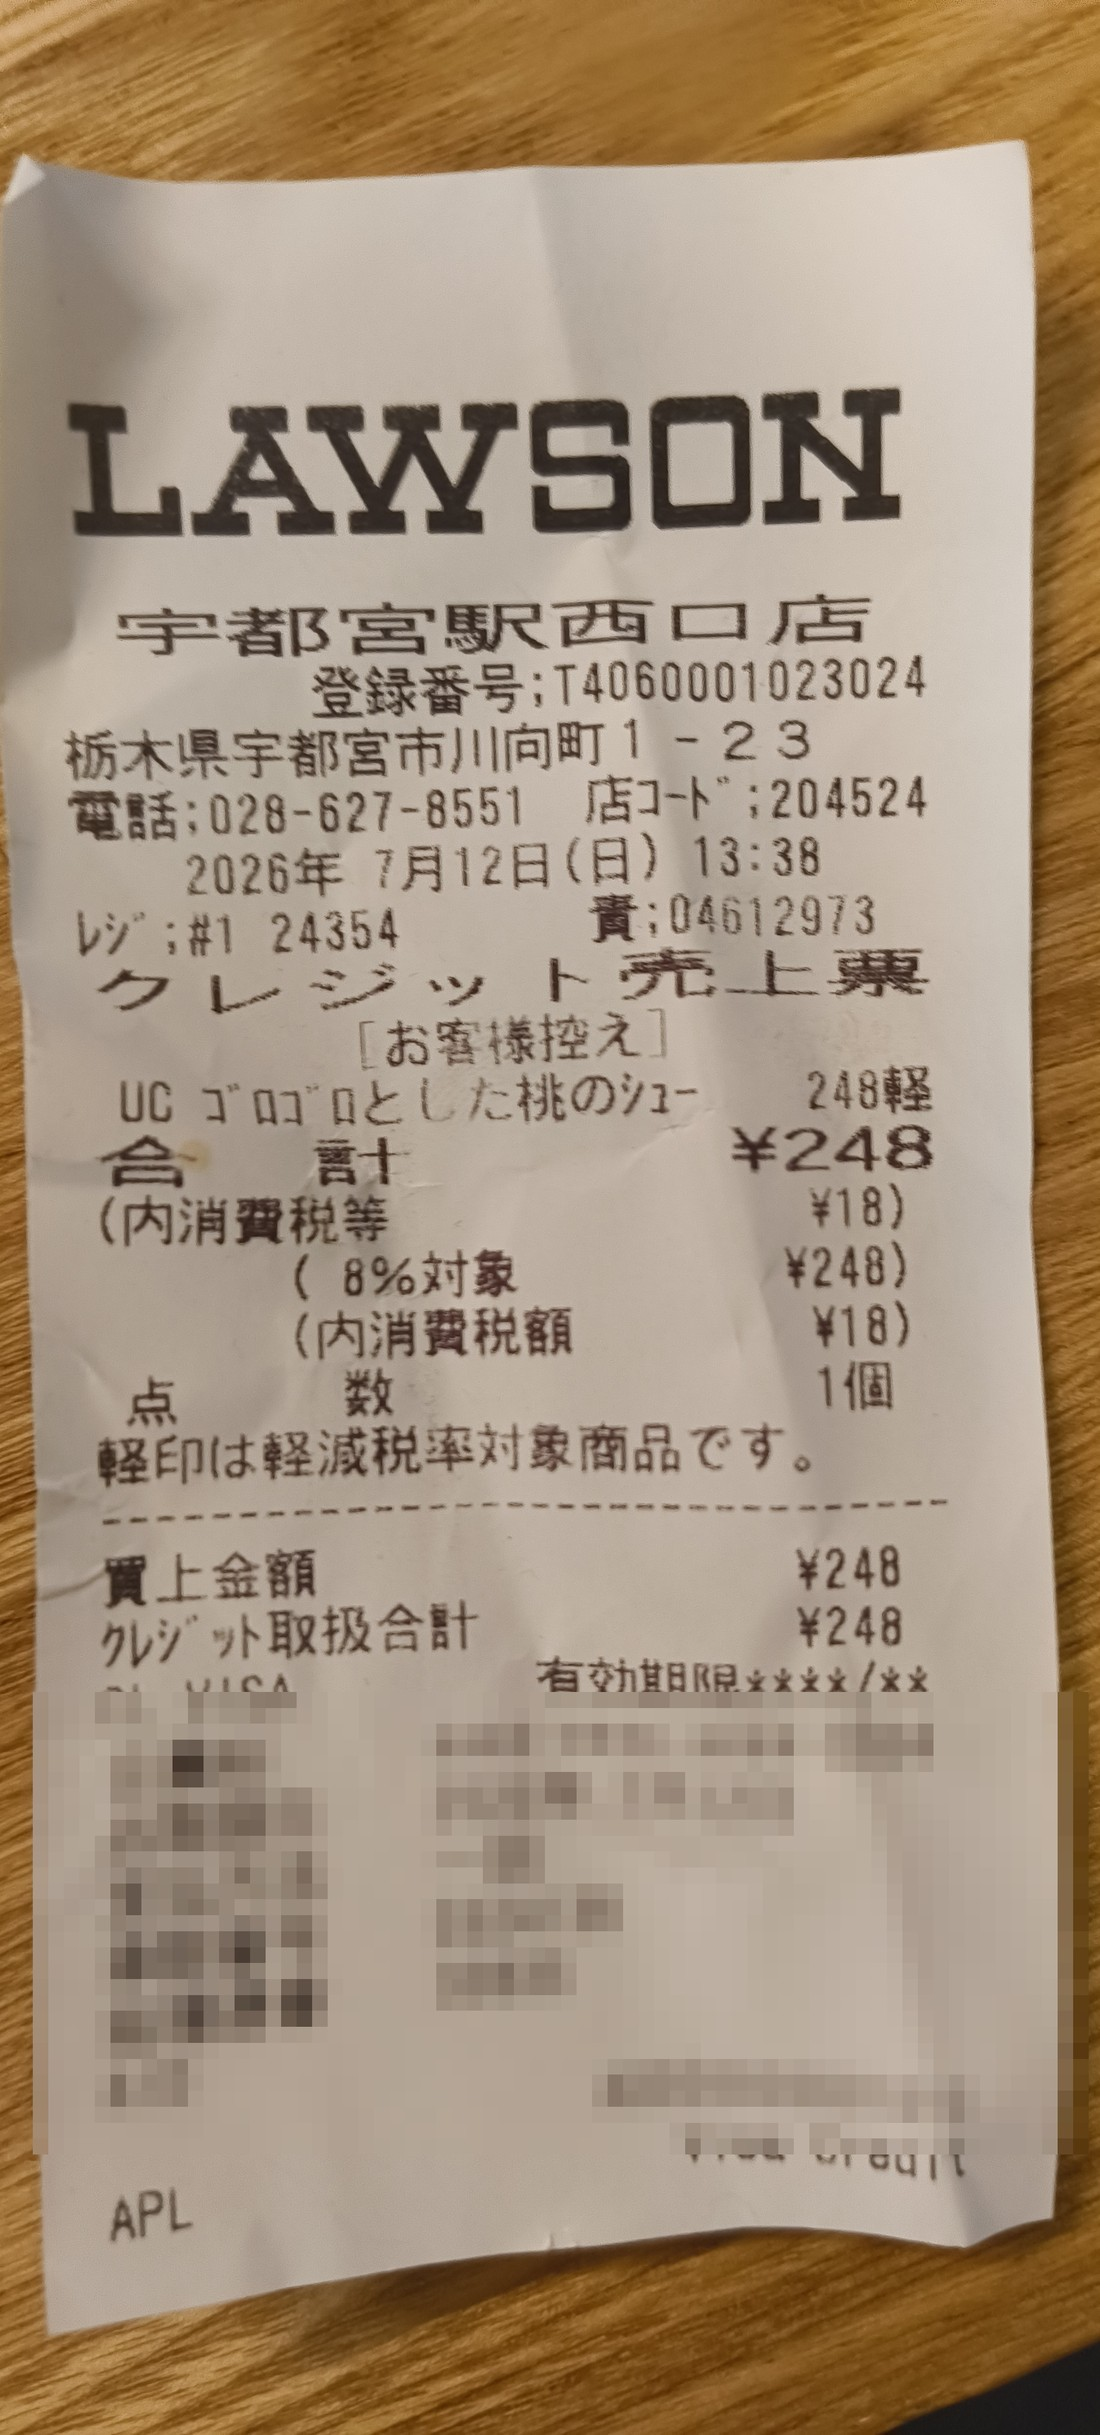
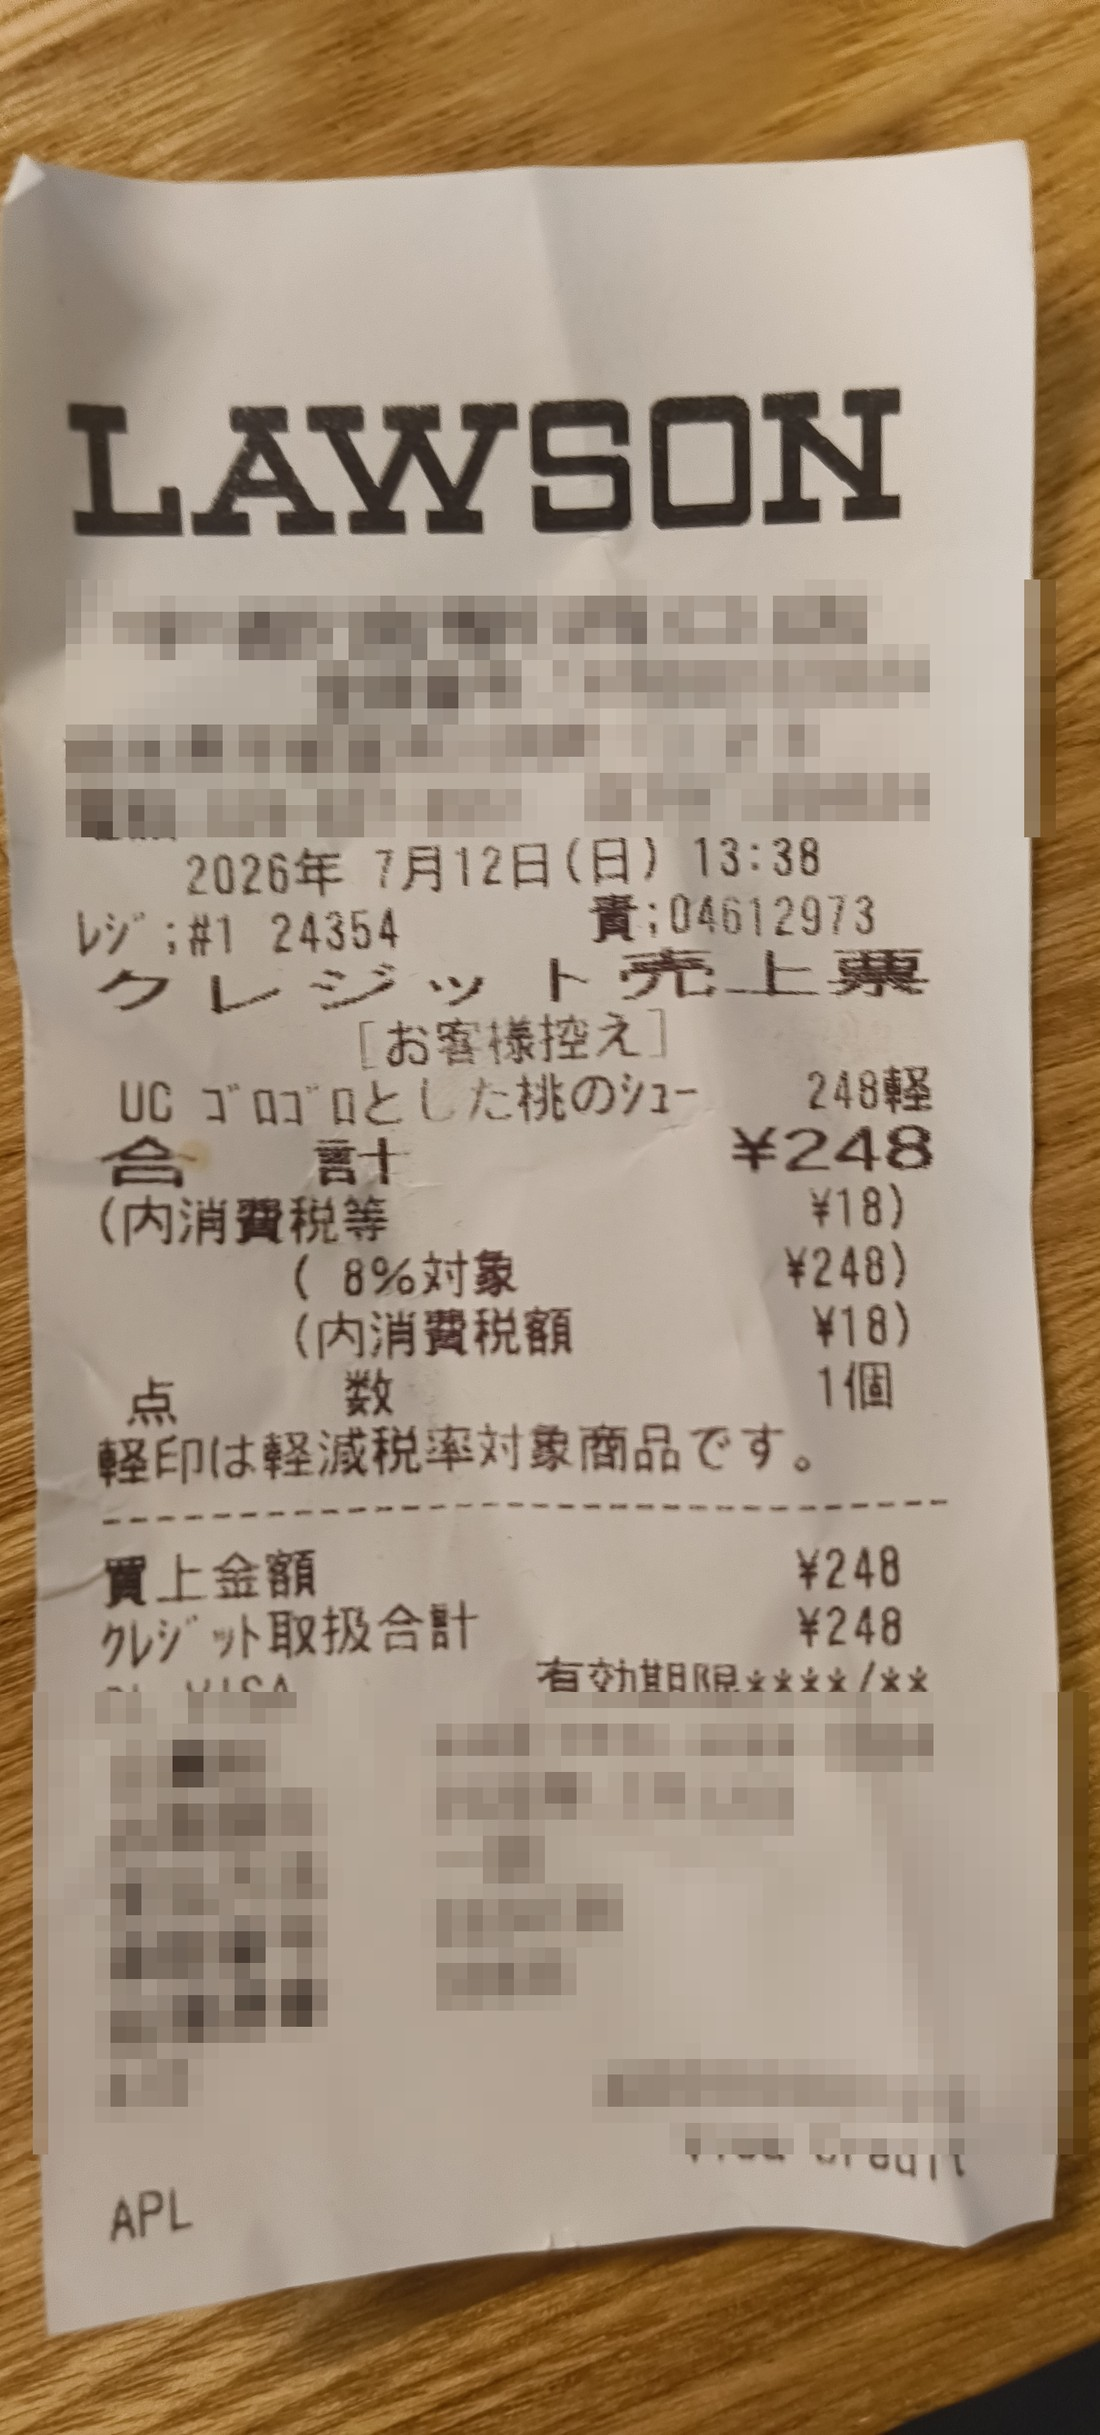
レシート写真の店舗特定情報をモザイクにする
支店名・登録番号・住所・電話・店コードを潰した。居住地が
そのまま読み取れるため。チェーン名のロゴは残している
（全国に多数あり場所を示さないうえ、レシートらしさが要るため）。

あわせて、その場かぎりのコマンドで作っていたレシート画像の
生成を mask.py に移した。元写真はリポジトリ外にあるので、
無い環境ではこの工程を飛ばす。

Claude-Session: https://claude.ai/code/session_01HWJt97JVuZTmLaNnjwvwhr

Changed region(s): [[0.0618, 0.2185, 0.8655, 0.3433], [0.9273, 0.2185, 0.9582, 0.3433]]

diff --git a/marketing/mask.py b/marketing/mask.py
@@ -21,6 +21,8 @@ lp.mjs はマスク済みのほうを読む。無加工のスクショ（real/sh
 bounds は行全体（x=107..973 など）を指すが、テキストは左寄せなので
 そのまま潰すと長い帯になって不自然。文字数から実長を見積もる。
 """
+import os
+
 from PIL import Image
 
 CHAR_W = 46  # 実測: フォント高 59px の行で 1文字あたり約46px
@@ -61,3 +63,40 @@ for name, items in TARGETS.items():
     out = f'real/{name}.masked.png'
     im.save(out)
     print(f'✓ {out}  ({len(items)} 箇所)')
+
+
+# ------------------------------------------------------------
+# レシート写真（カメラ画面のファインダーに使う）
+#
+# 元写真はリポジトリ外（.gitignore 済み）。無ければこの工程は飛ばす。
+#
+# 横だけレシート幅に切ると縦横比が約0.45になり、端末画面にそのまま収まる。
+# 「上部だけ切り出す」方法は使えない — 縦が足りず、object-fit: cover で
+# 必ず文字が左右に切れる。だから全長を使い、隠す部分はモザイクで潰す。
+#
+# 座標は画像の高さ・幅に対する比率。元写真を撮り直したら取り直すこと。
+# ------------------------------------------------------------
+RECEIPT_SRC = r'D:\OtherProjects\raku-bo\IMG_20260802_095725406.jpg'
+
+# (説明, x1, y1, x2, y2) — すべて切り出し後の画像に対する比率
+RECEIPT_MASKS = [
+    # 店舗が特定できる範囲: 支店名・登録番号・住所・電話・店コード。
+    # チェーン名（LAWSON）のロゴは残している。全国に多数あり場所を示さないため。
+    ('店舗の特定情報', 0.06, 0.238, 0.96, 0.344),
+    # 決済まわり: 会員Noの下4桁・有効期限・お取扱日・支払方法・承認番号・
+    # 処理通番・AID
+    ('決済情報', 0.03, 0.695, 0.99, 0.885),
+]
+
+if os.path.exists(RECEIPT_SRC):
+    im = Image.open(RECEIPT_SRC).convert('RGB')
+    w, h = im.size
+    im = im.crop((int(w * 0.19), 0, int(w * 0.79), h))
+    W, H = im.size
+    for _label, fx1, fy1, fx2, fy2 in RECEIPT_MASKS:
+        mosaic(im, (int(W * fx1), int(H * fy1), int(W * fx2), int(H * fy2)), block=26)
+    im.thumbnail((1100, 2450), Image.LANCZOS)
+    im.save('real/receipt.jpg', quality=90, optimize=True)
+    print(f'✓ real/receipt.jpg  ({len(RECEIPT_MASKS)} 箇所)')
+else:
+    print(f'- レシートの元写真が無いので飛ばした: {RECEIPT_SRC}')
